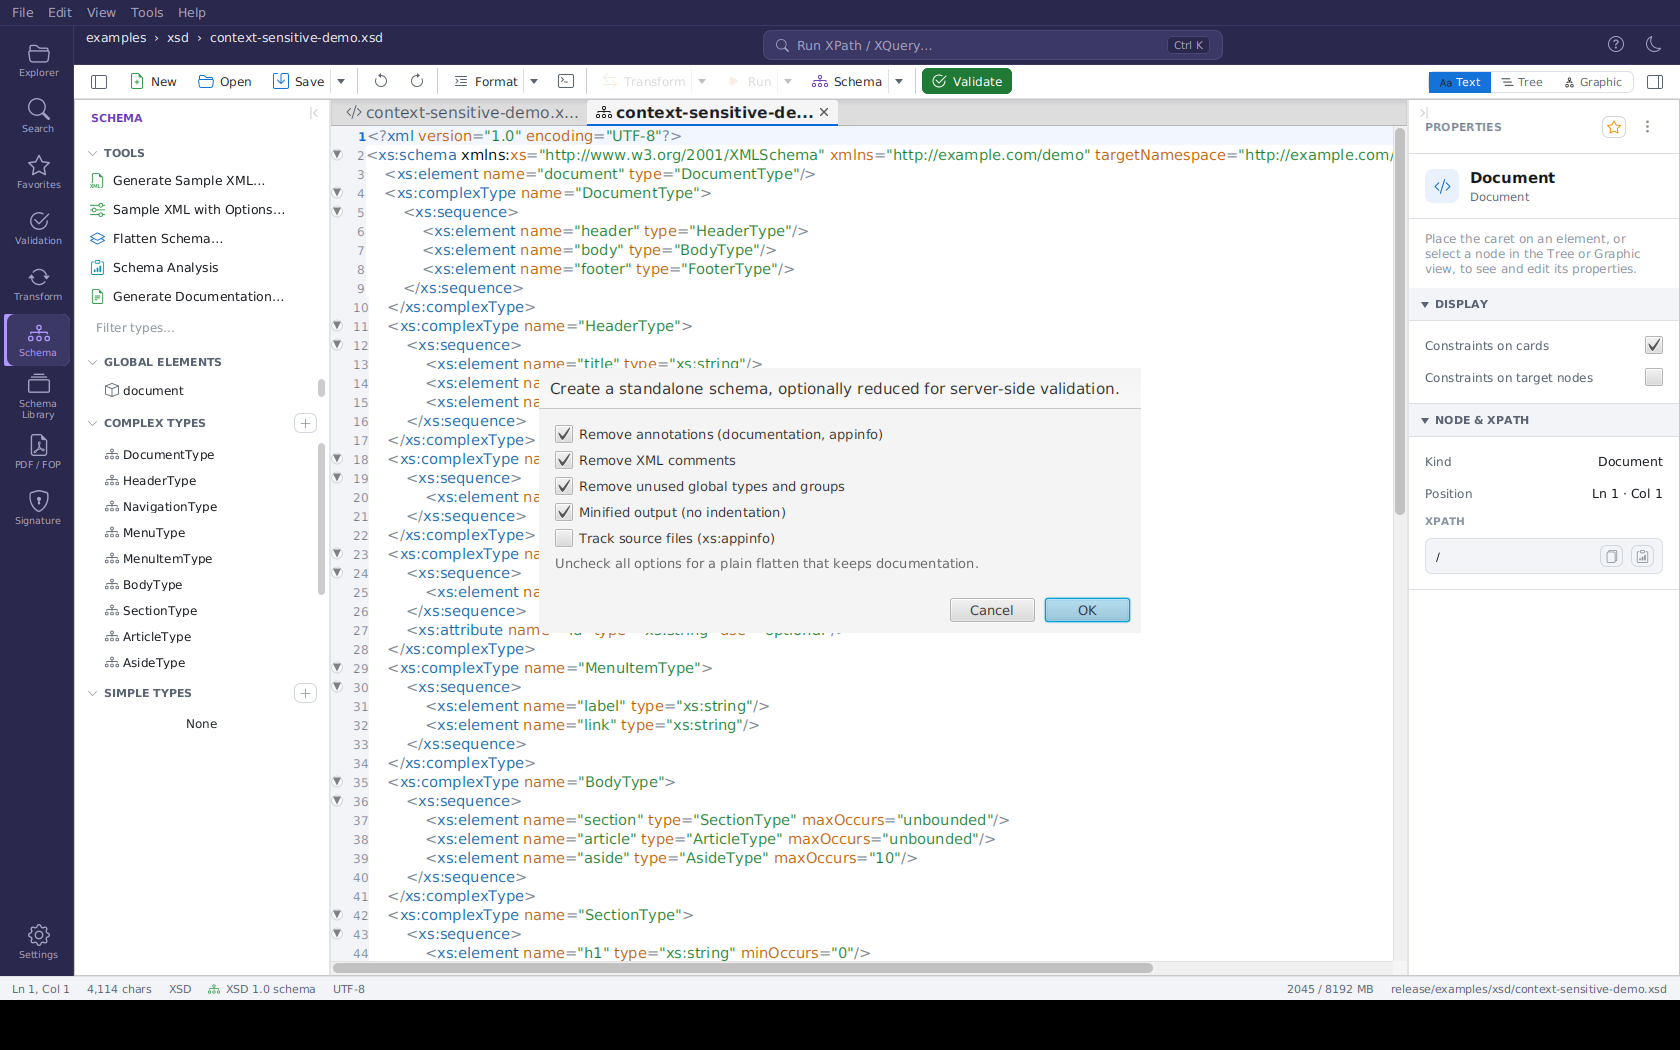
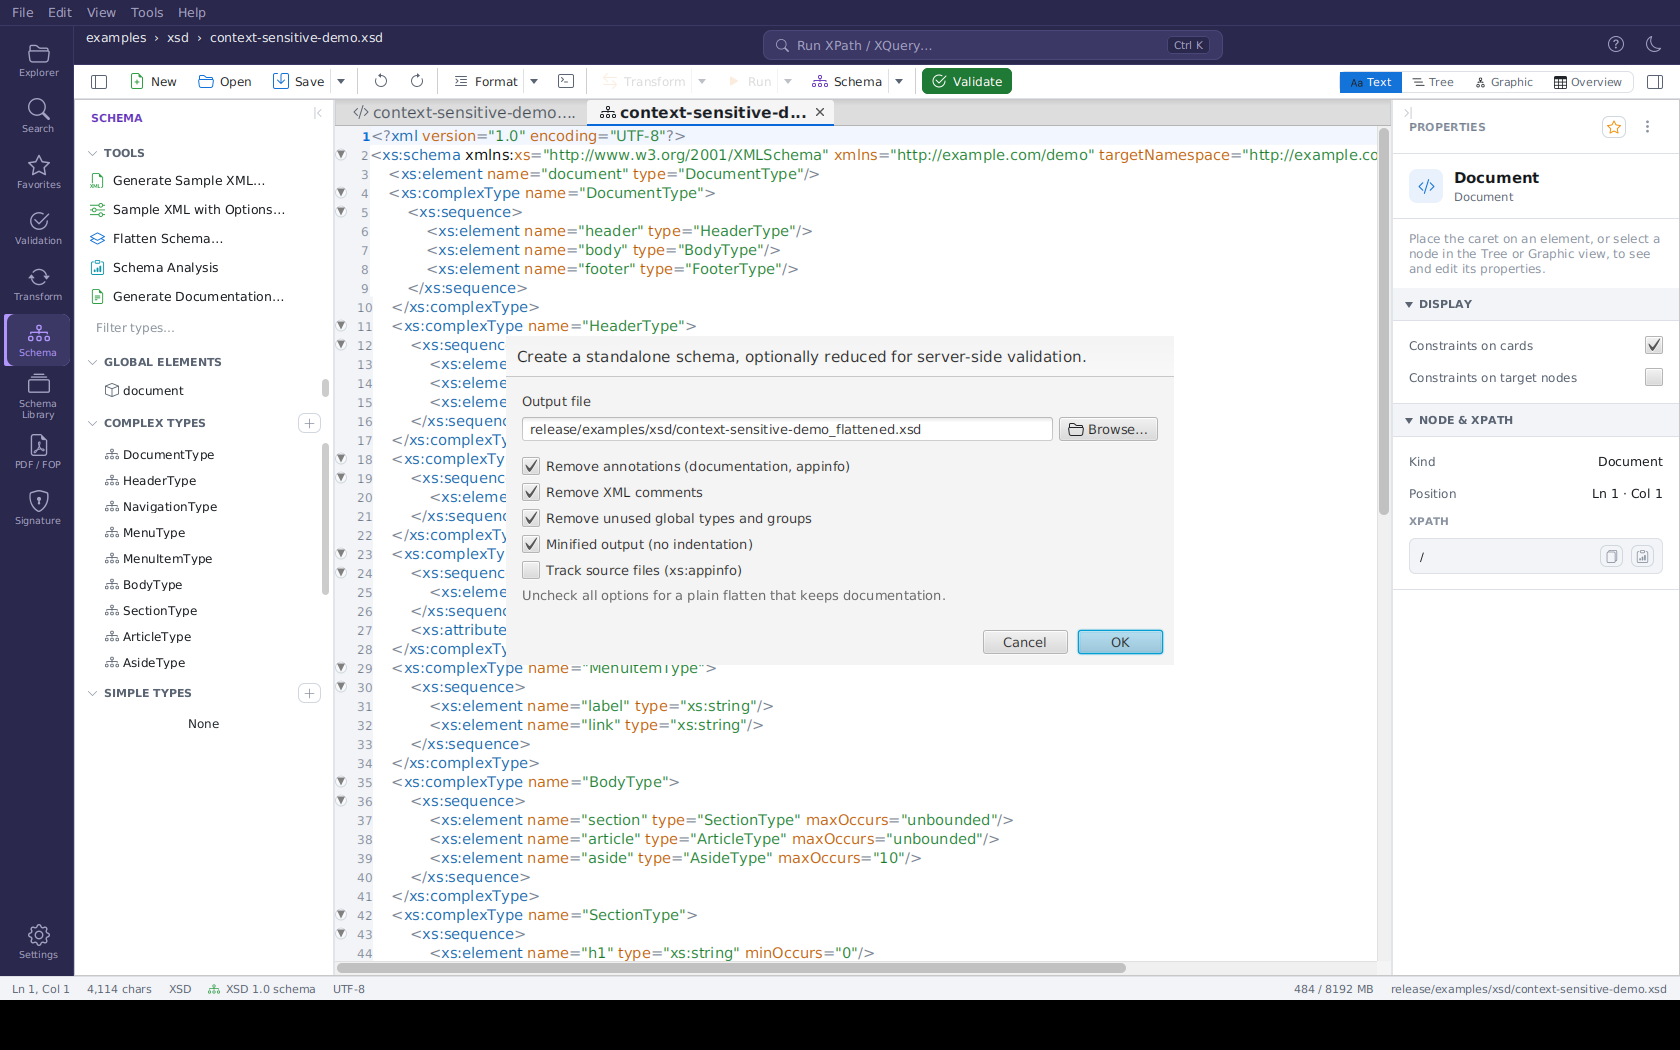
feat(xsd): choose the output file when flattening a schema
The Flatten Schema dialog asks for the output file, preset to
<name>_flattened.xsd next to the original; the result is written there
and opened. Existing files need confirmation, the original schema is
never overwritten, and an empty field keeps the unsaved-tab behaviour.

Changed region(s): [[0.1857, 0.061, 0.9905, 0.9143], [0.5571, 0.5486, 0.7119, 0.64], [0.65, 0.9143, 0.681, 0.9448]]

diff --git a/src/main/java/org/fxt/freexmltoolkit/controls/shell/editor/FlattenOptionsDialog.java b/src/main/java/org/fxt/freexmltoolkit/controls/shell/editor/FlattenOptionsDialog.java
@@ -1,35 +1,99 @@
 package org.fxt.freexmltoolkit.controls.shell.editor;
 
+import java.io.File;
+import java.nio.file.Files;
+import java.nio.file.InvalidPathException;
+import java.nio.file.Path;
+import java.util.function.Predicate;
+
 import javafx.fxml.FXML;
 import javafx.scene.control.ButtonType;
 import javafx.scene.control.CheckBox;
 import javafx.scene.control.Dialog;
+import javafx.scene.control.Label;
+import javafx.scene.control.TextField;
+import javafx.stage.FileChooser;
 
 import org.fxt.freexmltoolkit.controls.shell.FxmlViews;
+import org.fxt.freexmltoolkit.controls.shell.schema.EditRuleDialogs;
 import org.fxt.freexmltoolkit.controls.v2.editor.flatten.FlattenOptions;
 
 /**
- * Collects reduction options for schema flattening (see {@link FlattenOptions}).
- * Defaults to a fully reduced, validation-only schema — uncheck everything for a
- * plain flatten. Resolved include directives are always dropped on this path
- * because the flattened output is meant to be standalone.
+ * Collects the output file and the reduction options for schema flattening (see
+ * {@link FlattenOptions}). The output defaults to {@code <name>_flattened.xsd} next to the
+ * source schema; an empty field opens the result as an unsaved tab. The options default to a
+ * fully reduced, validation-only schema — uncheck everything for a plain flatten. Resolved
+ * include directives are always dropped on this path because the flattened output is meant to
+ * be standalone.
  */
-public class FlattenOptionsDialog extends Dialog<FlattenOptions> {
+public class FlattenOptionsDialog extends Dialog<FlattenOptionsDialog.Request> {
 
+    /**
+     * The user's answer.
+     *
+     * @param options    the reduction options
+     * @param outputFile the file to write, or {@code null} to open the result unsaved
+     */
+    public record Request(FlattenOptions options, Path outputFile) {
+    }
+
+    /** Test hook: answers the overwrite question instead of a dialog ({@code null} = dialog). */
+    private static Predicate<Path> overwriteConfirmer;
+
+    @FXML private TextField outputField;
+    @FXML private Label outputError;
     @FXML private CheckBox removeAnnotations;
     @FXML private CheckBox removeComments;
     @FXML private CheckBox minify;
     @FXML private CheckBox removeUnusedTypes;
     @FXML private CheckBox trackSourceFiles;
 
+    private final Path sourceFile;
+
+    /** A dialog without a source file (the output field starts empty). */
     public FlattenOptionsDialog() {
+        this(null);
+    }
+
+    /**
+     * @param sourceFile the schema being flattened, or {@code null} for an unsaved document
+     */
+    public FlattenOptionsDialog(Path sourceFile) {
+        this.sourceFile = sourceFile;
         setTitle("Flatten Schema");
         setHeaderText("Create a standalone schema, optionally reduced for server-side validation.");
         getDialogPane().getButtonTypes().addAll(ButtonType.OK, ButtonType.CANCEL);
 
         getDialogPane().setContent(FxmlViews.loadContent(this, "/pages/dialogs/FlattenOptionsDialog.fxml"));
 
-        setResultConverter(button -> button == ButtonType.OK ? currentOptions() : null);
+        if (sourceFile != null) {
+            outputField.setText(defaultOutput(sourceFile).toString());
+        }
+        outputField.textProperty().addListener((obs, o, n) -> validate());
+        validate();
+        getDialogPane().lookupButton(ButtonType.OK).addEventFilter(javafx.event.ActionEvent.ACTION, e -> {
+            if (validate() != null || !confirmOverwrite()) {
+                e.consume();
+            }
+        });
+
+        setResultConverter(button -> button == ButtonType.OK ? new Request(currentOptions(), outputFile()) : null);
+    }
+
+    /**
+     * @return {@code <name>_flattened.xsd} in the folder of {@code source} ({@code FundsXML.xsd}
+     *         → {@code FundsXML_flattened.xsd})
+     */
+    public static Path defaultOutput(Path source) {
+        String name = source.getFileName().toString();
+        int dot = name.lastIndexOf('.');
+        String base = dot > 0 ? name.substring(0, dot) : name;
+        return source.resolveSibling(base + "_flattened.xsd");
+    }
+
+    /** @param confirmer answers "overwrite the existing file?" in tests ({@code null} = dialog) */
+    public static void setOverwriteConfirmer(Predicate<Path> confirmer) {
+        overwriteConfirmer = confirmer;
     }
 
     /** @return the options reflecting the current control state. */
@@ -37,6 +101,94 @@ public class FlattenOptionsDialog extends Dialog<FlattenOptions> {
         return new FlattenOptions(removeAnnotations.isSelected(), removeComments.isSelected(),
                 minify.isSelected(), removeUnusedTypes.isSelected(), true,
                 trackSourceFiles.isSelected());
+    }
+
+    /** @return the entered output file, or {@code null} when the field is empty or not a path */
+    public Path outputFile() {
+        String text = outputField.getText() == null ? "" : outputField.getText().trim();
+        if (text.isEmpty()) {
+            return null;
+        }
+        try {
+            return Path.of(text).toAbsolutePath().normalize();
+        } catch (InvalidPathException e) {
+            return null;
+        }
+    }
+
+    /** Sets the output field (for tests/observers). */
+    public void setOutput(String path) {
+        outputField.setText(path);
+    }
+
+    /**
+     * Shows the first problem of the output file below the field.
+     *
+     * @return the problem, or {@code null} when the file can be used (an empty field is fine)
+     */
+    String validate() {
+        String error = outputProblem();
+        outputError.setText(error == null ? "" : error);
+        outputError.setVisible(error != null);
+        outputError.setManaged(error != null);
+        return error;
+    }
+
+    private String outputProblem() {
+        String text = outputField.getText() == null ? "" : outputField.getText().trim();
+        if (text.isEmpty()) {
+            return null;
+        }
+        Path output = outputFile();
+        if (output == null || output.getFileName() == null) {
+            return "'" + text + "' is not a valid file path.";
+        }
+        if (Files.isDirectory(output)) {
+            return "Enter a file name, not a folder.";
+        }
+        if (output.getParent() == null || !Files.isDirectory(output.getParent())) {
+            return "The folder " + output.getParent() + " does not exist.";
+        }
+        if (sourceFile != null && output.equals(sourceFile.toAbsolutePath().normalize())) {
+            return "Choose another file: the original schema must not be overwritten.";
+        }
+        return null;
+    }
+
+    private boolean confirmOverwrite() {
+        Path output = outputFile();
+        if (output == null || !Files.exists(output)) {
+            return true;
+        }
+        if (overwriteConfirmer != null) {
+            return overwriteConfirmer.test(output);
+        }
+        return EditRuleDialogs.confirm(getDialogPane().getScene() != null ? getDialogPane().getScene().getWindow() : null,
+                "Flatten Schema", "The file already exists",
+                output.getFileName() + " already exists in " + output.getParent() + ". Overwrite it?", "Overwrite");
+    }
+
+    @FXML
+    public void onBrowse() {
+        FileChooser chooser = new FileChooser();
+        chooser.setTitle("Save Flattened Schema");
+        chooser.getExtensionFilters().addAll(
+                new FileChooser.ExtensionFilter("XML Schema (*.xsd)", "*.xsd"),
+                new FileChooser.ExtensionFilter("All files", "*.*"));
+        Path current = outputFile();
+        if (current == null && sourceFile != null) {
+            current = defaultOutput(sourceFile);
+        }
+        if (current != null) {
+            if (current.getParent() != null && Files.isDirectory(current.getParent())) {
+                chooser.setInitialDirectory(current.getParent().toFile());
+            }
+            chooser.setInitialFileName(current.getFileName().toString());
+        }
+        File chosen = chooser.showSaveDialog(getDialogPane().getScene().getWindow());
+        if (chosen != null) {
+            outputField.setText(chosen.getAbsolutePath());
+        }
     }
 
     /** Sets the control state (for tests/observers), leaving source-file tracking off. */

diff --git a/src/main/java/org/fxt/freexmltoolkit/controls/shell/editor/TypeLibraryPanel.java b/src/main/java/org/fxt/freexmltoolkit/controls/shell/editor/TypeLibraryPanel.java
@@ -274,15 +274,30 @@ public class TypeLibraryPanel extends VBox {
         if (editorHost.getActiveDocument().isEmpty()) {
             return;
         }
-        var options = new FlattenOptionsDialog().showAndWait();
-        if (options.isEmpty()) {
+        java.nio.file.Path source = editorHost.getActiveDocument().map(OpenDocument::getPath).orElse(null);
+        FlattenOptionsDialog dialog = new FlattenOptionsDialog(source);
+        if (getScene() != null) {
+            dialog.initOwner(getScene().getWindow());
+        }
+        var request = dialog.showAndWait();
+        if (request.isEmpty()) {
             return;
         }
-        flattenActive(options.get());
+        flattenActive(request.get().options(), request.get().outputFile());
     }
 
-    /** Flattens the active XSD with the given options, without asking (async). */
+    /** Flattens the active XSD with the given options and opens the result as an unsaved tab (async). */
     public void flattenActive(org.fxt.freexmltoolkit.controls.v2.editor.flatten.FlattenOptions options) {
+        flattenActive(options, null);
+    }
+
+    /**
+     * Flattens the active XSD with the given options, without asking (async).
+     *
+     * @param output the file to write and open, or {@code null} to open the result as an unsaved tab
+     */
+    public void flattenActive(org.fxt.freexmltoolkit.controls.v2.editor.flatten.FlattenOptions options,
+                              java.nio.file.Path output) {
         java.nio.file.Path schemaFile = editorHost.getActiveDocument().map(OpenDocument::getPath).orElse(null);
         java.nio.file.Path baseDir = schemaFile != null ? schemaFile.getParent() : null;
         if (editorHost.getActiveDocument().isEmpty()) {
@@ -293,8 +308,18 @@ public class TypeLibraryPanel extends VBox {
             long t0 = System.nanoTime();
             ActionRun run = SchemaActionRunner.flattenResult(content, baseDir, schemaFile, options);
             UsageEvents.schemaFlattened(t0, run.failure());
-            javafx.application.Platform.runLater(() -> showResult(run.text(), "Schema Tool",
-                    EditorFileType.XSD, "Flattened.xsd"));
+            if (output == null || run.text().startsWith("ERROR:")) {
+                javafx.application.Platform.runLater(() -> showResult(run.text(), "Schema Tool",
+                        EditorFileType.XSD, "Flattened.xsd"));
+                return;
+            }
+            try {
+                java.nio.file.Files.writeString(output, run.text(), java.nio.charset.StandardCharsets.UTF_8);
+                javafx.application.Platform.runLater(() -> editorHost.openFile(output));
+            } catch (java.io.IOException | RuntimeException e) {
+                javafx.application.Platform.runLater(() -> alert(javafx.scene.control.Alert.AlertType.ERROR,
+                        "Schema Tool", "The flattened schema could not be written to " + output + ": " + e.getMessage()));
+            }
         });
     }
 

diff --git a/src/test/java/org/fxt/freexmltoolkit/controls/shell/editor/FlattenOptionsDialogTest.java b/src/test/java/org/fxt/freexmltoolkit/controls/shell/editor/FlattenOptionsDialogTest.java
@@ -2,11 +2,15 @@ package org.fxt.freexmltoolkit.controls.shell.editor;
 
 import static org.junit.jupiter.api.Assertions.*;
 
+import java.nio.file.Files;
+import java.nio.file.Path;
+
 import javafx.scene.control.ButtonType;
 import javafx.stage.Stage;
 
 import org.junit.jupiter.api.Test;
 import org.junit.jupiter.api.extension.ExtendWith;
+import org.junit.jupiter.api.io.TempDir;
 import org.testfx.framework.junit5.ApplicationExtension;
 import org.testfx.framework.junit5.Start;
 import org.testfx.util.WaitForAsyncUtils;
@@ -64,9 +68,43 @@ class FlattenOptionsDialogTest {
     @Test
     void okReturnsOptionsCancelReturnsNull() {
         WaitForAsyncUtils.waitForAsyncFx(2000, () -> {
-            assertNotNull(dialog.getResultConverter().call(ButtonType.OK));
+            assertNotNull(dialog.getResultConverter().call(ButtonType.OK).options());
             assertNull(dialog.getResultConverter().call(ButtonType.CANCEL));
             return null;
         });
+    }
+
+    @Test
+    void defaultOutputSitsNextToTheSourceWithSuffix() {
+        assertEquals(Path.of("/x/FundsXML_flattened.xsd"), FlattenOptionsDialog.defaultOutput(Path.of("/x/FundsXML.xsd")));
+        assertEquals(Path.of("/x/schema_flattened.xsd"), FlattenOptionsDialog.defaultOutput(Path.of("/x/schema")));
+    }
+
+    @Test
+    void outputIsPrefilledAndValidated(@TempDir Path tmp) throws Exception {
+        Path source = Files.writeString(tmp.resolve("FundsXML.xsd"), "<xs:schema/>");
+        FlattenOptionsDialog withSource = WaitForAsyncUtils.waitForAsyncFx(2000, () -> new FlattenOptionsDialog(source));
+        assertEquals(tmp.resolve("FundsXML_flattened.xsd").toAbsolutePath().normalize(),
+                WaitForAsyncUtils.waitForAsyncFx(2000, withSource::outputFile));
+        assertNull(WaitForAsyncUtils.waitForAsyncFx(2000, withSource::validate));
+
+        WaitForAsyncUtils.waitForAsyncFx(2000, () -> {
+            withSource.setOutput(source.toString());
+            assertNotNull(withSource.validate(), "the original must not be overwritten");
+            withSource.setOutput(tmp.resolve("missing/out.xsd").toString());
+            assertNotNull(withSource.validate(), "the folder must exist");
+            withSource.setOutput(tmp.toString());
+            assertNotNull(withSource.validate(), "a folder is no file");
+            withSource.setOutput("");
+            assertNull(withSource.validate(), "empty keeps the unsaved-tab behaviour");
+            var request = withSource.getResultConverter().call(ButtonType.OK);
+            assertNull(request.outputFile());
+            return null;
+        });
+    }
+
+    @Test
+    void withoutSourceTheFieldStartsEmpty() {
+        assertNull(WaitForAsyncUtils.waitForAsyncFx(2000, dialog::outputFile));
     }
 }

diff --git a/src/test/java/org/fxt/freexmltoolkit/controls/shell/editor/SchemaGenerateTest.java b/src/test/java/org/fxt/freexmltoolkit/controls/shell/editor/SchemaGenerateTest.java
@@ -115,4 +115,23 @@ class SchemaGenerateTest {
                         && host.getActiveText().map(t -> t.contains("schema")).orElse(false));
         assertEquals(EditorFileType.XSD, host.getActiveDocument().orElseThrow().getFileType());
     }
+
+    @Test
+    void flattenWritesChosenFile(@TempDir Path tmp) throws Exception {
+        Path xsd = tmp.resolve("schema.xsd");
+        Files.writeString(xsd, "<xs:schema xmlns:xs=\"http://www.w3.org/2001/XMLSchema\">"
+                + "<xs:element name=\"root\" type=\"xs:string\"/></xs:schema>");
+        WaitForAsyncUtils.waitForAsyncFx(2000, () -> host.openFile(xsd));
+        WaitForAsyncUtils.waitFor(3, TimeUnit.SECONDS,
+                () -> host.getActiveText().map(t -> t.contains("root")).orElse(false));
+
+        Path output = tmp.resolve("schema_flattened.xsd");
+        WaitForAsyncUtils.waitForAsyncFx(2000, () -> {
+            panel.flattenActive(org.fxt.freexmltoolkit.controls.v2.editor.flatten.FlattenOptions.NONE, output);
+            return null;
+        });
+        WaitForAsyncUtils.waitFor(6, TimeUnit.SECONDS, () -> output.equals(
+                host.getActiveDocument().map(OpenDocument::getPath).orElse(null)));
+        assertTrue(Files.readString(output).contains("schema"));
+    }
 }

diff --git a/src/test/java/org/fxt/freexmltoolkit/screenshots/ShellDocScreenshotGenerator.java b/src/test/java/org/fxt/freexmltoolkit/screenshots/ShellDocScreenshotGenerator.java
@@ -145,7 +145,9 @@ class ShellDocScreenshotGenerator {
             var flattenDialog = new java.util.concurrent.atomic.AtomicReference<
                     org.fxt.freexmltoolkit.controls.shell.editor.FlattenOptionsDialog>();
             onFx(() -> {
-                var dialog = new org.fxt.freexmltoolkit.controls.shell.editor.FlattenOptionsDialog();
+                var dialog = new org.fxt.freexmltoolkit.controls.shell.editor.FlattenOptionsDialog(
+                        host.getActiveDocument().map(
+                                org.fxt.freexmltoolkit.controls.shell.editor.OpenDocument::getPath).orElse(null));
                 dialog.initOwner(shell.getScene().getWindow());
                 dialog.show();
                 flattenDialog.set(dialog);

diff --git a/docs/xsd-tools.md b/docs/xsd-tools.md
@@ -1100,9 +1100,16 @@ Combine multiple XSD files into a single, standalone file. Useful when your sche
 
 1. Open your main XSD file in the editor
 2. In the **Schema** activity's side panel, click the **Flatten Schema…** tool button
-3. The **Flatten Schema** options dialog opens — pick which reductions you want (see below)
-4. Click **OK**
-5. The flattened schema opens as a new editor tab (`Flattened.xsd`), ready for you to review and save
+3. The **Flatten Schema** dialog opens. **Output file** is preset to the folder of your schema with
+   `_flattened.xsd` appended to its name (`FundsXML.xsd` → `FundsXML_flattened.xsd`). Change it,
+   or pick another file with **Browse…**
+4. Pick which reductions you want (see below) and click **OK**
+5. The flattened schema is written to the output file and opened in a new editor tab. If the
+   file already exists you are asked before it is overwritten; the original schema itself can
+   never be chosen as the output
+
+Leave **Output file** empty to open the result as an unsaved tab (`Flattened.xsd`) instead —
+this is also the default for a schema that has not been saved yet.
 
 ### Flatten Options
 

diff --git a/docs/whats-new.md b/docs/whats-new.md
@@ -13,6 +13,9 @@ running is shown under **Help → About FreeXmlToolkit**.
   Tabs below edit the selected component's attributes (Default/Fixed offer the enumeration
   values), identity constraints, XSD 1.1 assertions and the schema's namespace prefixes. See
   [XSD Tools](xsd-tools.md#overview-view).
+- **Flatten Schema:** the dialog asks for the output file, preset to `<name>_flattened.xsd` next to
+  the original schema; the result is written there and opened. See
+  [XSD Tools](xsd-tools.md#8-xsd-flattener).
 - **XSD saving keeps your order:** the top-level components are no longer re-sorted on every
   save; schema-level `xs:annotation`, `xs:notation` and `xs:defaultOpenContent` are no longer
   lost when the schema is edited.
